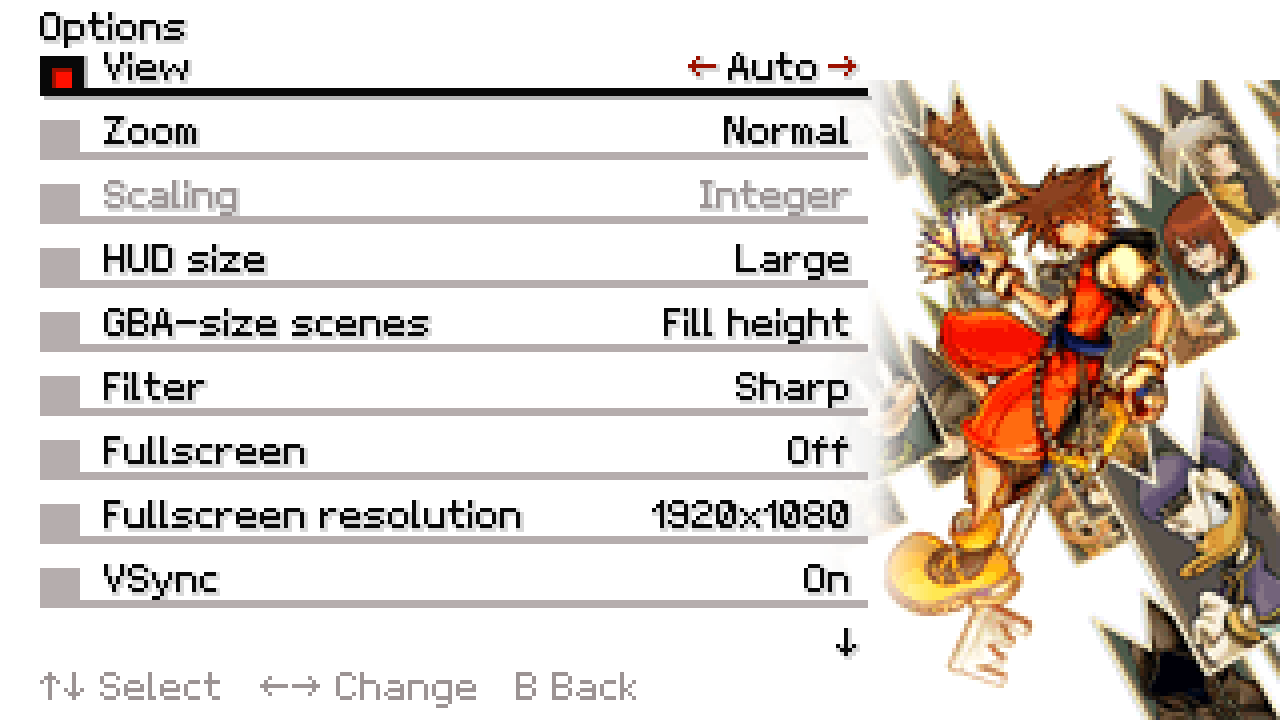
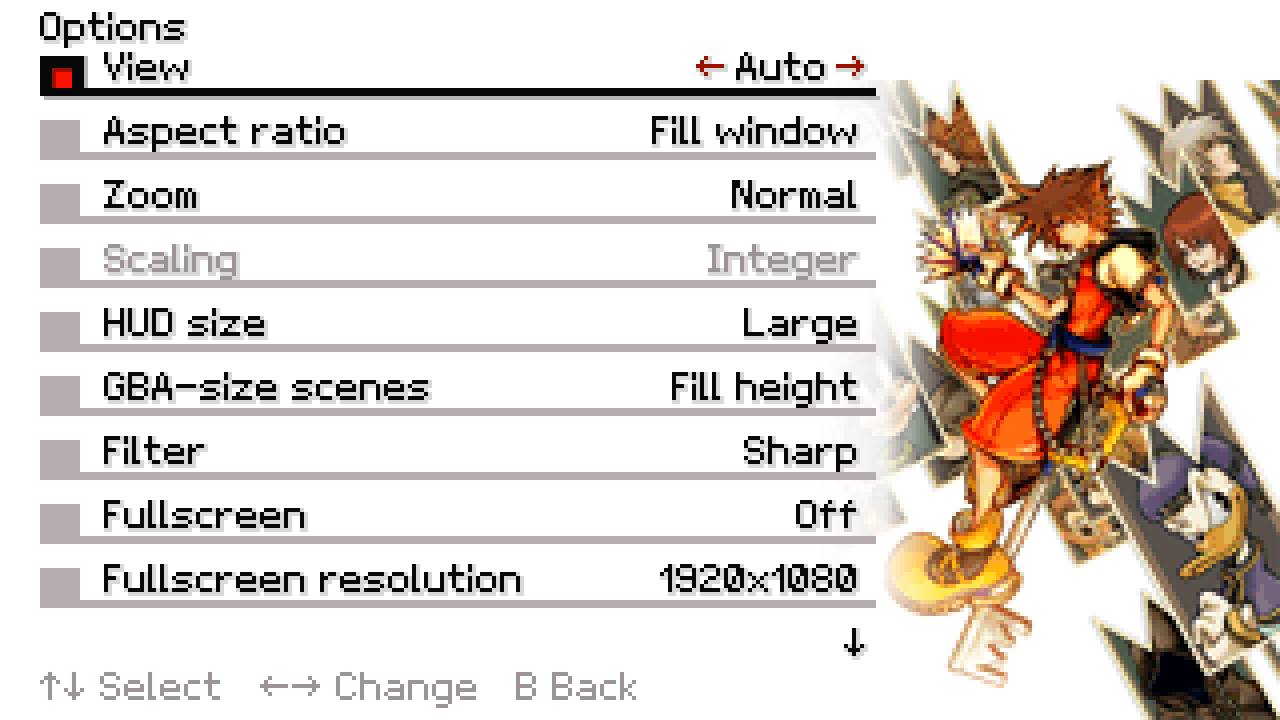
v1.1: Aspect ratio option, ultrawide support in the README
- Aspect ratio (game and launcher, kh_com.ini aspect): fill the window, or
  keep the picture at most 16:9 or 21:9, centred with black bars.
- README: ultrawide section and screenshots; options screenshot; v1.1.

diff --git a/port/src/port_ui.c b/port/src/port_ui.c
@@ -24,6 +24,7 @@ enum { LANG_EN, LANG_FR, LANG_DE, LANG_IT, LANG_ES, LANG_JA, LANG_COUNT };
 
 enum {
     ITEM_VIEW,
+    ITEM_ASPECT,
     ITEM_ZOOM,
     ITEM_SCALE,
     ITEM_HUD,
@@ -92,6 +93,7 @@ static int ItemVisible(int item) {
 /* Strings: UTF-8, one row per item, columns in LANG_* order. */
 static const char* const sLabels[ITEM_COUNT][LANG_COUNT] = {
     { "View", "Vue", "Ansicht", "Visuale", "Vista", "表示" },
+    { "Aspect ratio", "Format d'image", "Seitenverhältnis", "Proporzioni", "Relación de aspecto", "アスペクト比" },
     { "Zoom", "Zoom", "Zoom", "Zoom", "Zoom", "ズーム" },
     { "Scaling", "Mise à l'échelle", "Skalierung", "Scala", "Escalado", "スケール" },
     { "HUD size", "Taille du HUD", "HUD-Größe", "Dimensione HUD", "Tamaño del HUD", "HUDサイズ" },
@@ -269,6 +271,11 @@ static const char* const sHudSizes[3][LANG_COUNT] = {
     { "Original", "Original", "Original", "Originale", "Original", "オリジナル" },
     { "Large", "Grand", "Groß", "Grande", "Grande", "大きい" },
     { "Larger", "Plus grand", "Größer", "Più grande", "Más grande", "もっと大きい" },
+};
+static const char* const sAspect[3][LANG_COUNT] = {
+    { "Fill window", "Remplir la fenêtre", "Fenster füllen", "Riempi finestra", "Llenar ventana", "ウィンドウに合わせる" },
+    { "16:9", "16:9", "16:9", "16:9", "16:9", "16:9" },
+    { "21:9", "21:9", "21:9", "21:9", "21:9", "21:9" },
 };
 static const char* const sNarrow[2][LANG_COUNT] = {
     { "Exact pixels", "Pixels exacts", "Exakte Pixel", "Pixel esatti", "Píxel exacto", "等倍ピクセル" },
@@ -538,6 +545,9 @@ static void ValueText(int item, char* out, size_t size) {
         case ITEM_HUD:
             SDL_strlcpy(out, sHudSizes[SDL_clamp(gPortConfig.hudSize, 0, 2)][l], size);
             break;
+        case ITEM_ASPECT:
+            SDL_strlcpy(out, sAspect[SDL_clamp(gPortConfig.aspect, 0, 2)][l], size);
+            break;
         case ITEM_NARROW:
             SDL_strlcpy(out, sNarrow[gPortConfig.narrowFit != 0][l], size);
             break;
@@ -658,6 +668,9 @@ static void Change(int item, int dir) {
             break;
         case ITEM_HUD:
             gPortConfig.hudSize = Wrap(gPortConfig.hudSize + dir, 3);
+            break;
+        case ITEM_ASPECT:
+            gPortConfig.aspect = Wrap(gPortConfig.aspect + dir, 3);
             break;
         case ITEM_NARROW:
             gPortConfig.narrowFit = !gPortConfig.narrowFit;

diff --git a/port/src/port_main.c b/port/src/port_main.c
@@ -227,6 +227,18 @@ int gPortBattleTest = -1; /* KHCOM_BATTLE=entry:stage[:riku] of the debug battle
 int gPortMovieTest = -1; /* KHCOM_MOVIE=id (mode_movie.h) */
 int gPortStartupLanguage = -1;
 
+/* The part of the window the picture uses: all of it, or the widest 16:9 or
+   21:9 rectangle (Aspect ratio option), centred with black bars at the sides. */
+static SDL_Rect AspectRect(int outW, int outH) {
+    SDL_Rect r = { 0, 0, outW, outH };
+    float limit = gPortConfig.aspect == 1 ? 16.0f / 9.0f : gPortConfig.aspect == 2 ? 21.0f / 9.0f : 0.0f;
+    if (limit > 0 && outH > 0 && outW > (int)(outH * limit + 0.5f)) {
+        r.w = (int)(outH * limit + 0.5f);
+        r.x = (outW - r.w) / 2;
+    }
+    return r;
+}
+
 /* Auto view: size the canvas to the window every frame. */
 static void UpdateResolution(void) {
     int outW, outH, w, h;
@@ -237,6 +249,7 @@ static void UpdateResolution(void) {
     } else {
         if (!SDL_GetCurrentRenderOutputSize(sRenderer, &outW, &outH) || outW <= 0 || outH <= 0)
             return;
+        outW = AspectRect(outW, outH).w;
         PortConfigAutoView(outW, outH, &w, &h, &sAutoScale);
     }
     /* screen layer: the 160 GBA lines at the window's height */
@@ -992,6 +1005,14 @@ static void Present(void) {
     SDL_GetCurrentRenderOutputSize(sRenderer, &outW, &outH);
     SDL_SetRenderDrawColor(sRenderer, 0, 0, 0, 255);
     SDL_RenderClear(sRenderer);
+    {
+        /* Aspect ratio option: draw into the chosen rectangle; the rest of
+           the window stays black */
+        SDL_Rect area = AspectRect(outW, outH);
+        SDL_SetRenderViewport(sRenderer, area.x || area.w != outW ? &area : NULL);
+        outW = area.w;
+        outH = area.h;
+    }
     if ((sFitScale > 0 || (!gPortScreen.wide && gPortConfig.narrowFit)) && !PortUiActive()
         && (gPortScreen.width > GBA_SCREEN_W || gPortScreen.height > GBA_SCREEN_H)) {
         /* Scene without a wide view: show the GBA picture at full height
@@ -1209,6 +1230,7 @@ static void Present(void) {
             }
         }
     }
+    SDL_SetRenderViewport(sRenderer, NULL);
     {
         /* KHCOM_OUTPUT_SHOT=frames: save the presented window image. */
         const char* out = SDL_getenv("KHCOM_OUTPUT_SHOT");

diff --git a/port/decompui/decompui.cpp b/port/decompui/decompui.cpp
@@ -46,7 +46,7 @@ namespace fs = std::filesystem;
 /* ---- strings (Spanish / English) ------------------------------------------- */
 
 #ifndef REKHCOM_VERSION
-#define REKHCOM_VERSION "v1.0.1"
+#define REKHCOM_VERSION "v1.1"
 #endif
 
 static bool sSpanish;
@@ -229,7 +229,7 @@ static const Setting kSettings[] = {
     { "master_volume", 100 }, { "music_volume", 100 }, { "sfx_volume", 100 },
     { "dodge_button", 1 },   { "stock_button", 1 }, { "hd_text", 0 },
     { "card_hud_raise", 8 }, { "unstock_button", 1 }, { "save_bank", 1 }, { "hd2d", 0 }, { "smooth_audio", 0 },
-    { "ps2_mode", 0 }, { "ps2_difficulty", 0 }, { "ps2_fast_text", 0 }, { "hd_hud", 0 },
+    { "ps2_mode", 0 }, { "ps2_difficulty", 0 }, { "ps2_fast_text", 0 }, { "hd_hud", 0 }, { "aspect", 0 },
     { "kb_a", SDLK_X },         { "kb_a_2", SDLK_K },       { "pad_a", SDL_GAMEPAD_BUTTON_SOUTH },
     { "kb_b", SDLK_Z },         { "kb_b_2", SDLK_J },       { "pad_b", SDL_GAMEPAD_BUTTON_EAST },
     { "kb_l", SDLK_A },         { "kb_l_2", 0 },            { "pad_l", SDL_GAMEPAD_BUTTON_LEFT_SHOULDER },
@@ -1003,6 +1003,13 @@ static void PageGraphics() {
     changed |= CycleRow(T("Vista", "View"), T("Auto llena la ventana a escala de píxel entera.",
                                               "Auto fills the window at a whole-number pixel scale."),
                         Ini("view_mode"), 5, views);
+    {
+        const char* aspects[] = { T("Llenar ventana", "Fill window"), "16:9", "21:9" };
+        changed |= CycleRow(T("Relación de aspecto", "Aspect ratio"),
+                            T("En monitores más anchos, 16:9 o 21:9 dejan bandas negras a los lados.",
+                              "On wider monitors, 16:9 or 21:9 leave black bars at the sides."),
+                            Ini("aspect"), 3, aspects);
+    }
     changed |= CycleRow(T("Zoom (vista Auto)", "Zoom (Auto view)"), nullptr, Ini("zoom"), 4, zooms);
     changed |= CycleRow(T("Escalado", "Scaling"), nullptr, Ini("scale_mode"), 3, scales);
     changed |= CycleRow(T("Filtro", "Filter"), nullptr, Ini("filter"), 3, filters);

diff --git a/port/src/port_config.c b/port/src/port_config.c
@@ -42,6 +42,7 @@ PortConfig gPortConfig = {
     0,                  /* ps2Difficulty (experimental) */
     0,                  /* ps2FastText (experimental) */
     0,                  /* hdHud (experimental) */
+    0,                  /* aspect: fill the window */
     {
         { SDLK_X, SDLK_K },             /* A */
         { SDLK_Z, SDLK_J },             /* B */
@@ -113,6 +114,7 @@ static const Key sKeys[] = {
     { "ps2_difficulty", &gPortConfig.ps2Difficulty, 0, 2 },
     { "ps2_fast_text", &gPortConfig.ps2FastText, 0, 1 },
     { "hd_hud", &gPortConfig.hdHud, 0, 1 },
+    { "aspect", &gPortConfig.aspect, 0, 2 },
 #define BIND(name, act)                                                           { "kb_" name, &gPortConfig.keys[act][0], 0, 0x7FFFFFFF },                     { "kb_" name "_2", &gPortConfig.keys[act][1], 0, 0x7FFFFFFF },                { "pad_" name, &gPortConfig.pad[act], -1, SDL_GAMEPAD_BUTTON_COUNT - 1 }
     BIND("a", PORT_ACT_A), BIND("b", PORT_ACT_B), BIND("l", PORT_ACT_L), BIND("r", PORT_ACT_R),
     BIND("start", PORT_ACT_START), BIND("select", PORT_ACT_SELECT), BIND("up", PORT_ACT_UP),

diff --git a/port/include/port/port.h b/port/include/port/port.h
@@ -117,6 +117,7 @@ typedef struct PortConfig {
     int ps2Difficulty;    /* Re:CoM mode: 0 standard, 1 beginner, 2 proud */
     int ps2FastText;      /* experimental: event dialogue types one character a frame */
     int hdHud;           /* experimental HD HUD placeholder: enemy HP panel */
+    int aspect;          /* picture shape: 0 fills the window, 1 at most 16:9, 2 at most 21:9 */
     int keys[PORT_ACT_COUNT][2]; /* SDL keycodes, 0 = none */
     int pad[PORT_ACT_COUNT];     /* SDL gamepad buttons, -1 = none */
 } PortConfig;

diff --git a/README.md b/README.md
@@ -7,7 +7,7 @@ The decompiled game runs as a real Windows program, with its own renderer, audio
 and launcher, in 16:9 and at the cartridge's exact speed (59.7275 Hz).
 
 <p align="center">
-  <a href="https://github.com/MatyMeatBoy/ReKHCom/releases/latest"><b>⬇ Download ReKHCoM v1.0.1 for Windows</b></a>
+  <a href="https://github.com/MatyMeatBoy/ReKHCom/releases/latest"><b>⬇ Download ReKHCoM v1.1 for Windows</b></a>
   &nbsp;·&nbsp; <a href="CHANGELOG.md">Changelog</a>
   &nbsp;·&nbsp; <a href="https://github.com/MatyMeatBoy/ReKHCom/releases">All releases</a>
 </p>
@@ -19,9 +19,11 @@ included), in all five European languages, English (US) and Japanese.
 
 ## Highlights
 
-- **16:9 without stretching.** Fields and battles show more of the world; the
-  menus that stay GBA-sized get margins drawn from the screen's own art (bars,
-  boxes, panels, stipple, checkerboards) on the picture's exact pixel grid.
+- **16:9 and ultrawide without stretching.** Fields and battles show more of
+  the world on any window shape, 16:10 to 32:9; the menus that stay GBA-sized
+  get margins drawn from the screen's own art (bars, boxes, panels, stipple,
+  checkerboards) on the picture's exact pixel grid at any scale. An *Aspect
+  ratio* option keeps the picture at 16:9 or 21:9 on wider monitors.
 - **Original speed and sound.** One game update per VBlank, as on the GBA;
   m4a music, PSG and PCM reimplemented in C; native movie playback.
 - **Launcher.** Installs and checks your dump (SHA-1), picks the version,
@@ -32,6 +34,14 @@ included), in all five European languages, English (US) and Japanese.
 
 <p align="center"><img src="docs/screenshots/deck.png" width="32%"> <img src="docs/screenshots/status.png" width="32%"> <img src="docs/screenshots/worldcards.png" width="32%"></p>
 <p align="center"><img src="docs/screenshots/journal.png" width="32%"> <img src="docs/screenshots/worldmap.png" width="32%"> <img src="docs/screenshots/vortex.png" width="32%"></p>
+
+### Ultrawide monitors
+
+The same view stretches to 21:9 and 32:9 screens: the world gets wider, the HUD
+stays in the corners and the menus carry their own art out to the edges.
+
+<p align="center"><img src="docs/screenshots/ultrawide.png" width="98%"></p>
+<p align="center"><img src="docs/screenshots/ultrawide_menu.png" width="98%"></p>
 
 ### Movies, as large as your screen allows
 
@@ -87,7 +97,7 @@ See [PROGRESS.md](PROGRESS.md) for the detailed breakdown.
 
 ## Running (Windows)
 
-1. Extract `ReKHCoM-v1.0.1-windows-x86.zip` into a writable folder.
+1. Extract `ReKHCoM-v1.1-windows-x86.zip` into a writable folder.
 2. Run `ReKHCoM.exe` and install your cartridge dump with **Install ROM...** (or drag
    the file onto the window). The dump is checked by SHA-1 and copied to `roms/`.
 3. Press **Play**. The launcher starts `khcom_eu.exe`, `khcom_us.exe` or `khcom_jp.exe`
@@ -142,7 +152,7 @@ your dump during the first configure step.
 To make a distributable ZIP without ROMs, saves or local settings:
 
 ```sh
-python port/tools/package_release.py --version v1.0.1 --sdl ../toolchain/SDL3-3.4.18
+python port/tools/package_release.py --version v1.1 --sdl ../toolchain/SDL3-3.4.18
 ```
 
 ## Controls

diff --git a/CHANGELOG.md b/CHANGELOG.md
@@ -2,6 +2,17 @@
 
 ## Unreleased
 
+## v1.1 — 2026-10-15
+
+- Ultrawide and other window shapes: every screen checked at 16:10, 16:9,
+  21:9 and 32:9 (1152x720 to 2560x1080). Menu margins are now drawn column by
+  column on the picture's own pixel grid, so at non-integer scales such as
+  6.75 (2560x1080) their stipple and checkerboards no longer slip by a pixel.
+- New video option, Aspect ratio (game and launcher): fill the window, or keep
+  the picture at most 16:9 or 21:9 with black bars at the sides on wider
+  monitors.
+- README: ultrawide screenshots.
+
 ## v1.0.1 — 2026-10-14
 
 - Fix: starting a new game in the Original version no longer turns off the
